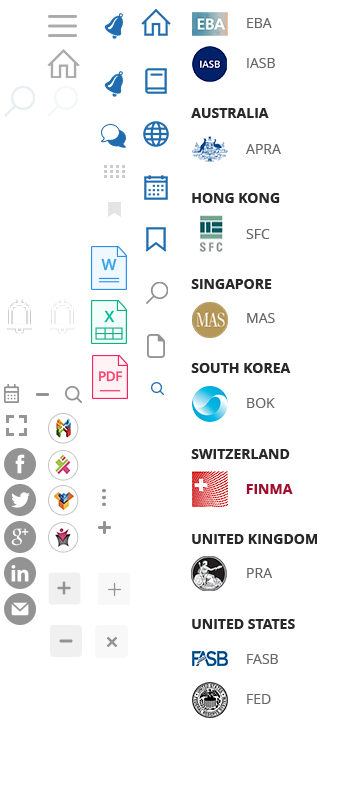
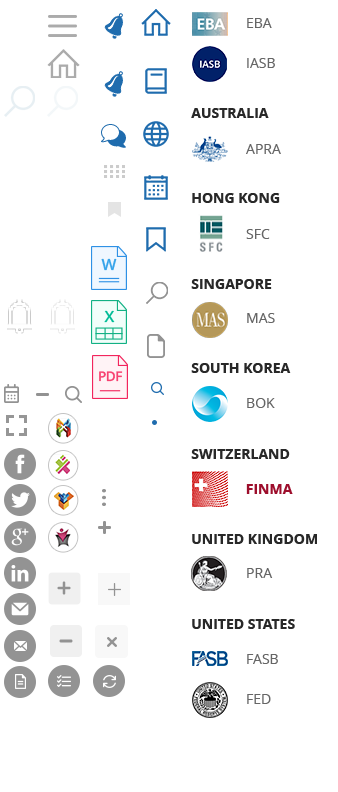
update page notifications, update regulations and standards page.

diff --git a/src/app/app-routing/app-routing.module.ts b/src/app/app-routing/app-routing.module.ts
@@ -4,15 +4,29 @@ import { RouterModule } from '@angular/router';
 
 import {StarterContentComponent} from '../starter/starter-content/starter-content.component';
 import {ProfileComponent} from '../profile/profile.component';
+
 import {SearchComponent} from '../search/search/search.component';
 import {SearchTabsComponent} from '../search/search-tabs/search-tabs.component';
 import {SearchResultComponent} from '../search/search-result/search-result.component';
 import {SearchTabDocumentsComponent} from '../search/search-tab-documents/search-tab-documents.component';
+
 import {SearchTabMilestonesComponent} from '../search/search-tab-milestones/search-tab-milestones.component';
 import {RegulatorComponent} from '../regulartor/regulator/regulator.component';
 import {RegulatorTabDocumentsComponent} from '../regulartor/regulator-tab-documents/regulator-tab-documents.component';
 import {RegulatorTabMilestonesComponent} from '../regulartor/regulator-tab-milestones/regulator-tab-milestones.component';
 import {RegulatorTabsComponent} from '../regulartor/regulator-tabs/regulator-tabs.component';
+
+import {NotificationsComponent} from '../notifications/notifications.component';
+
+import {StandardsComponent} from '../standards/standards/standards.component';
+import {StandardsTabsComponent} from '../standards/standards-tabs/standards-tabs.component';
+import {StandardsTabDocumentsComponent} from '../standards/standards-tab-documents/standards-tab-documents.component';
+import {StandardsTabMilestonesComponent} from '../standards/standards-tab-milestones/standards-tab-milestones.component';
+import {StandardsTabQuickGuideComponent} from '../standards/standards-tab-quick-guide/standards-tab-quick-guide.component';
+import {StandardsTabImplementationGuideComponent} from '../standards/standards-tab-implementation-guide/standards-tab-implementation-guide.component';
+import {StandardsTabContactsComponent} from '../standards/standards-tab-contacts/standards-tab-contacts.component';
+import {StandardsTabLinksComponent} from '../standards/standards-tab-links/standards-tab-links.component';
+
 @NgModule({
   imports: [
     RouterModule.forRoot([
@@ -28,6 +42,10 @@ import {RegulatorTabsComponent} from '../regulartor/regulator-tabs/regulator-tab
           {
             path: 'dashboard',
             component: StarterContentComponent
+          },
+          {
+            path: 'notifications',
+            component: NotificationsComponent
           },
           {
             path: 'profile',
@@ -82,6 +100,47 @@ import {RegulatorTabsComponent} from '../regulartor/regulator-tabs/regulator-tab
                   {
                     path: 'milestones',
                     component: RegulatorTabMilestonesComponent
+                  },
+                ]
+              },
+            ]
+          },
+          {
+            path: 'regulations-regulators',
+            component: StandardsComponent,
+            children: [
+              {
+                path: '',
+                component: StandardsTabsComponent,
+                children: [
+                  {
+                    path: '',
+                    redirectTo: 'documents',
+                    pathMatch: 'full'
+                  },
+                  {
+                    path: 'documents',
+                    component: StandardsTabDocumentsComponent
+                  },
+                  {
+                    path: 'milestones',
+                    component: StandardsTabMilestonesComponent
+                  },
+                  {
+                    path: 'quick-guide',
+                    component: StandardsTabQuickGuideComponent
+                  },
+                  {
+                    path: 'implementation-guide',
+                    component: StandardsTabImplementationGuideComponent
+                  },
+                  {
+                    path: 'contact',
+                    component: StandardsTabContactsComponent
+                  },
+                  {
+                    path: 'links',
+                    component: StandardsTabLinksComponent
                   },
                 ]
               },

diff --git a/src/app/app.module.ts b/src/app/app.module.ts
@@ -1,4 +1,3 @@
-import { AdminModule } from './admin/admin.module';
 import { AppRoutingModule } from './app-routing/app-routing.module';
 import { BrowserModule } from '@angular/platform-browser';
 import { NgModule } from '@angular/core';
@@ -25,6 +24,15 @@ import { RegulatorComponent } from './regulartor/regulator/regulator.component';
 import { RegulatorTabsComponent } from './regulartor/regulator-tabs/regulator-tabs.component';
 import { RegulatorTabDocumentsComponent } from './regulartor/regulator-tab-documents/regulator-tab-documents.component';
 import { RegulatorTabMilestonesComponent } from './regulartor/regulator-tab-milestones/regulator-tab-milestones.component';
+import { NotificationsComponent } from './notifications/notifications.component';
+import { StandardsComponent } from './standards/standards/standards.component';
+import { StandardsTabsComponent } from './standards/standards-tabs/standards-tabs.component';
+import { StandardsTabDocumentsComponent } from './standards/standards-tab-documents/standards-tab-documents.component';
+import { StandardsTabMilestonesComponent } from './standards/standards-tab-milestones/standards-tab-milestones.component';
+import { StandardsTabQuickGuideComponent } from './standards/standards-tab-quick-guide/standards-tab-quick-guide.component';
+import { StandardsTabImplementationGuideComponent } from './standards/standards-tab-implementation-guide/standards-tab-implementation-guide.component';
+import { StandardsTabContactsComponent } from './standards/standards-tab-contacts/standards-tab-contacts.component';
+import { StandardsTabLinksComponent } from './standards/standards-tab-links/standards-tab-links.component';
 
 @NgModule({
   declarations: [
@@ -46,6 +54,15 @@ import { RegulatorTabMilestonesComponent } from './regulartor/regulator-tab-mile
     RegulatorTabsComponent,
     RegulatorTabDocumentsComponent,
     RegulatorTabMilestonesComponent,
+    NotificationsComponent,
+    StandardsComponent,
+    StandardsTabsComponent,
+    StandardsTabDocumentsComponent,
+    StandardsTabMilestonesComponent,
+    StandardsTabQuickGuideComponent,
+    StandardsTabImplementationGuideComponent,
+    StandardsTabContactsComponent,
+    StandardsTabLinksComponent,
   ],
   imports: [
     BrowserModule,

diff --git a/src/styles.css b/src/styles.css
@@ -179,6 +179,9 @@ li:hover span[class*="icon-admin"]{
 .icon-chat{
   background-position: -97px -116px
 }
+.icon-dot{
+  background-position: -137px -407px;
+}
 .icon-dashboard-setting{
   background-position: -97px -150px
 }
@@ -284,4 +287,16 @@ li:hover span[class*="icon-admin"]{
 
 
 /* end css icon regulator page */
+.icon-mail-md{
+  background-position: -3px -628px
+}
+.icon-paper{
+  background-position: -3px -664px
+}
+.icon-list{
+  background-position: -47px -664px
+}
+.icon-reload{
+  background-position: -92px -664px;
+}
 /* end css icon  */

diff --git a/src/app/regulartor/regulator-tabs/regulator-tabs.component.html b/src/app/regulartor/regulator-tabs/regulator-tabs.component.html
@@ -9,8 +9,6 @@
     <p>Soft by: </p>
     <ss-multiselect-dropdown [options]="myOptions" [settings]="mySettings"  (ngModelChange)="onChange($event)"></ss-multiselect-dropdown>
   </div>
-  <app-modal [modalTitle]="'Some title'" [blocking]='false' [modalId]='modalId'>
-  </app-modal>
 </div>
 <div class="content-b-s">
   <router-outlet></router-outlet>

diff --git a/src/app/modals/modal/modal.component.html b/src/app/modals/modal/modal.component.html
@@ -31,7 +31,6 @@
       </a>
       <div class="md-header">
         <div class="top-sub-content-b-s">
-          <span class="icon-document icon-page icon-word"></span>
           <div class="title-sub-content-b-s">
             <p class="title">Lorem ipsum dolor amet </p>
             <div class="tag-content">

diff --git a/src/app/starter/starter-left-side/starter-left-side.component.ts b/src/app/starter/starter-left-side/starter-left-side.component.ts
@@ -30,7 +30,7 @@ export class StarterLeftSideComponent implements OnInit {
     {
     name: 'Regulators & Standards',
     icon: 'icon-sidebar icon-regulators-standards',
-    sref: '/standards'
+    sref: '/regulations-regulators'
 
   },
     {

diff --git a/src/app/regulartor/regulator-tabs/regulator-tabs.component.css b/src/app/regulartor/regulator-tabs/regulator-tabs.component.css
@@ -37,5 +37,5 @@
 }
 .bg-regulator{
   height: 200px;
-  background-image: url("../../../assets/img/bg-regulator.png");
+  background-image: url("../../../assets/img/bg-standard.png");
 }
